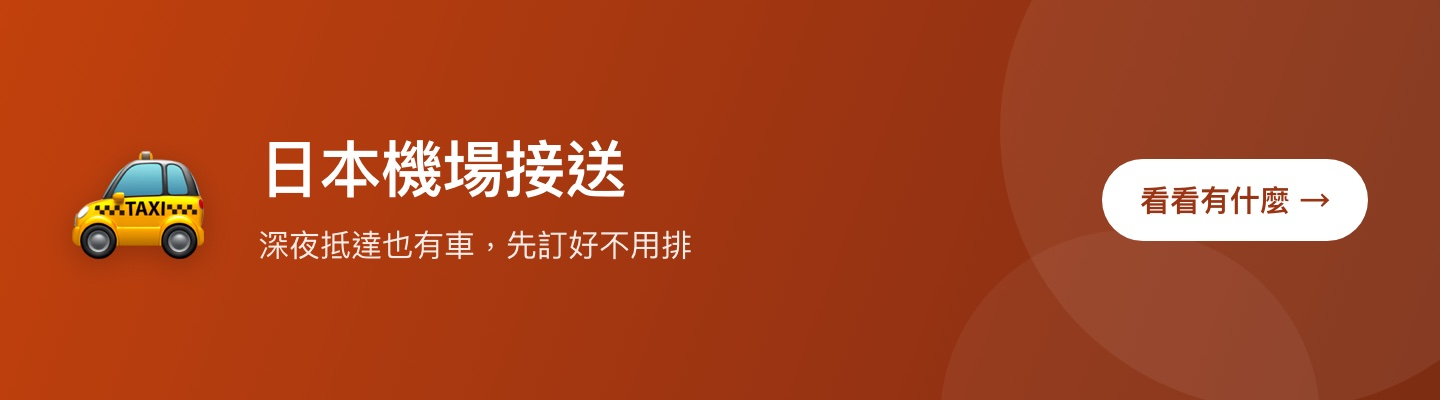
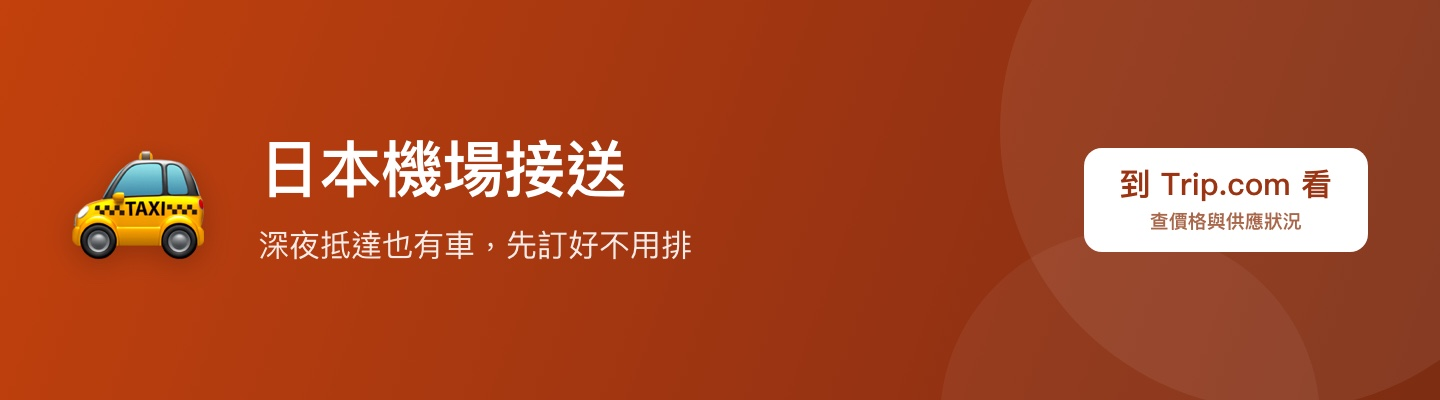
廣告橫幅補上平台名
partners.json 的標示原則是「每個連結都標明會前往哪個平台，讓使用者
點擊前就知道目的地」。文字版有做到，圖片版漏了，按鈕只寫「看看有什麼」，
讀者不知道會被帶去哪。改成「到 Klook 看／查價格與供應狀況」。

Changed region(s): [[0.75, 0.36, 0.9688, 0.63]]

diff --git a/make_adbanner.py b/make_adbanner.py
@@ -19,14 +19,17 @@ W, H = 1440, 400
 OUT = 'ads'
 E = htm.escape
 
-# 與 gen.py 的 _AD_KIND 對齊，但文案改成橫幅用的短句
+# 與 gen.py 的 _AD_KIND 對齊，但文案改成橫幅用的短句。
+# 第四欄是平台名，一定要印在圖上：partners.json 的標示原則是
+# 「每個連結都標明會前往哪個平台，讓使用者點擊前就知道目的地」。
+# 只寫「看看有什麼」的話，讀者不知道會被帶去哪，不會點。
 BANNERS = {
-    'esim':      ('📱', '日本上網卡與 eSIM', '落地就能用，不用現場找櫃台'),
-    'activity2': ('🎫', '日本行程與門票', '在地一日遊、景點票與體驗'),
-    'transfer':  ('🚕', '日本機場接送', '深夜抵達也有車，先訂好不用排'),
-    'car':       ('🚗', '在日本租車', '比較各家車型與保險方案'),
-    'transport': ('🚄', 'JR Pass 與日本交通票', '跨城市移動前先比一次'),
-    'hotel':     ('🏨', '日本住宿', '看完機票就是訂房'),
+    'esim':      ('📱', '日本上網卡與 eSIM', '落地就能用，不用現場找櫃台', 'Klook'),
+    'activity2': ('🎫', '日本行程與門票', '在地一日遊、景點票與體驗', 'KKday'),
+    'transfer':  ('🚕', '日本機場接送', '深夜抵達也有車，先訂好不用排', 'Trip.com'),
+    'car':       ('🚗', '在日本租車', '比較各家車型與保險方案', 'Trip.com'),
+    'transport': ('🚄', 'JR Pass 與日本交通票', '跨城市移動前先比一次', 'Trip.com'),
+    'hotel':     ('🏨', '日本住宿', '看完機票就是訂房', 'Trip.com'),
 }
 
 CSS = """
@@ -46,18 +49,21 @@ body{width:1440px;height:400px;overflow:hidden;
 .t{font-size:62px;font-weight:800;letter-spacing:-.01em;line-height:1.2}
 .s{font-size:31px;margin-top:16px;opacity:.9;line-height:1.5}
 .go{flex:0 0 auto;position:relative;z-index:1;background:#fff;color:#9a3412;
- font-size:30px;font-weight:800;padding:20px 38px;border-radius:999px;white-space:nowrap}
+ padding:18px 36px;border-radius:18px;white-space:nowrap;text-align:center}
+.go b{display:block;font-size:31px;font-weight:800;line-height:1.2}
+.go s{display:block;text-decoration:none;font-size:19px;font-weight:600;
+ color:#a8674a;margin-top:5px}
 """
 
 
 def page(kind):
-    icon, title, sub = BANNERS[kind]
+    icon, title, sub, brand = BANNERS[kind]
     return ('<!doctype html><html lang="zh-Hant"><head><meta charset="utf-8">'
             f'<style>{CSS}</style></head><body><div class="b">'
             f'<div class="ic">{icon}</div>'
             f'<div class="tx"><div class="t">{E(title)}</div>'
             f'<div class="s">{E(sub)}</div></div>'
-            '<div class="go">看看有什麼 →</div>'
+            f'<div class="go"><b>到 {E(brand)} 看</b><s>查價格與供應狀況</s></div>'
             '</div></body></html>')
 
 
